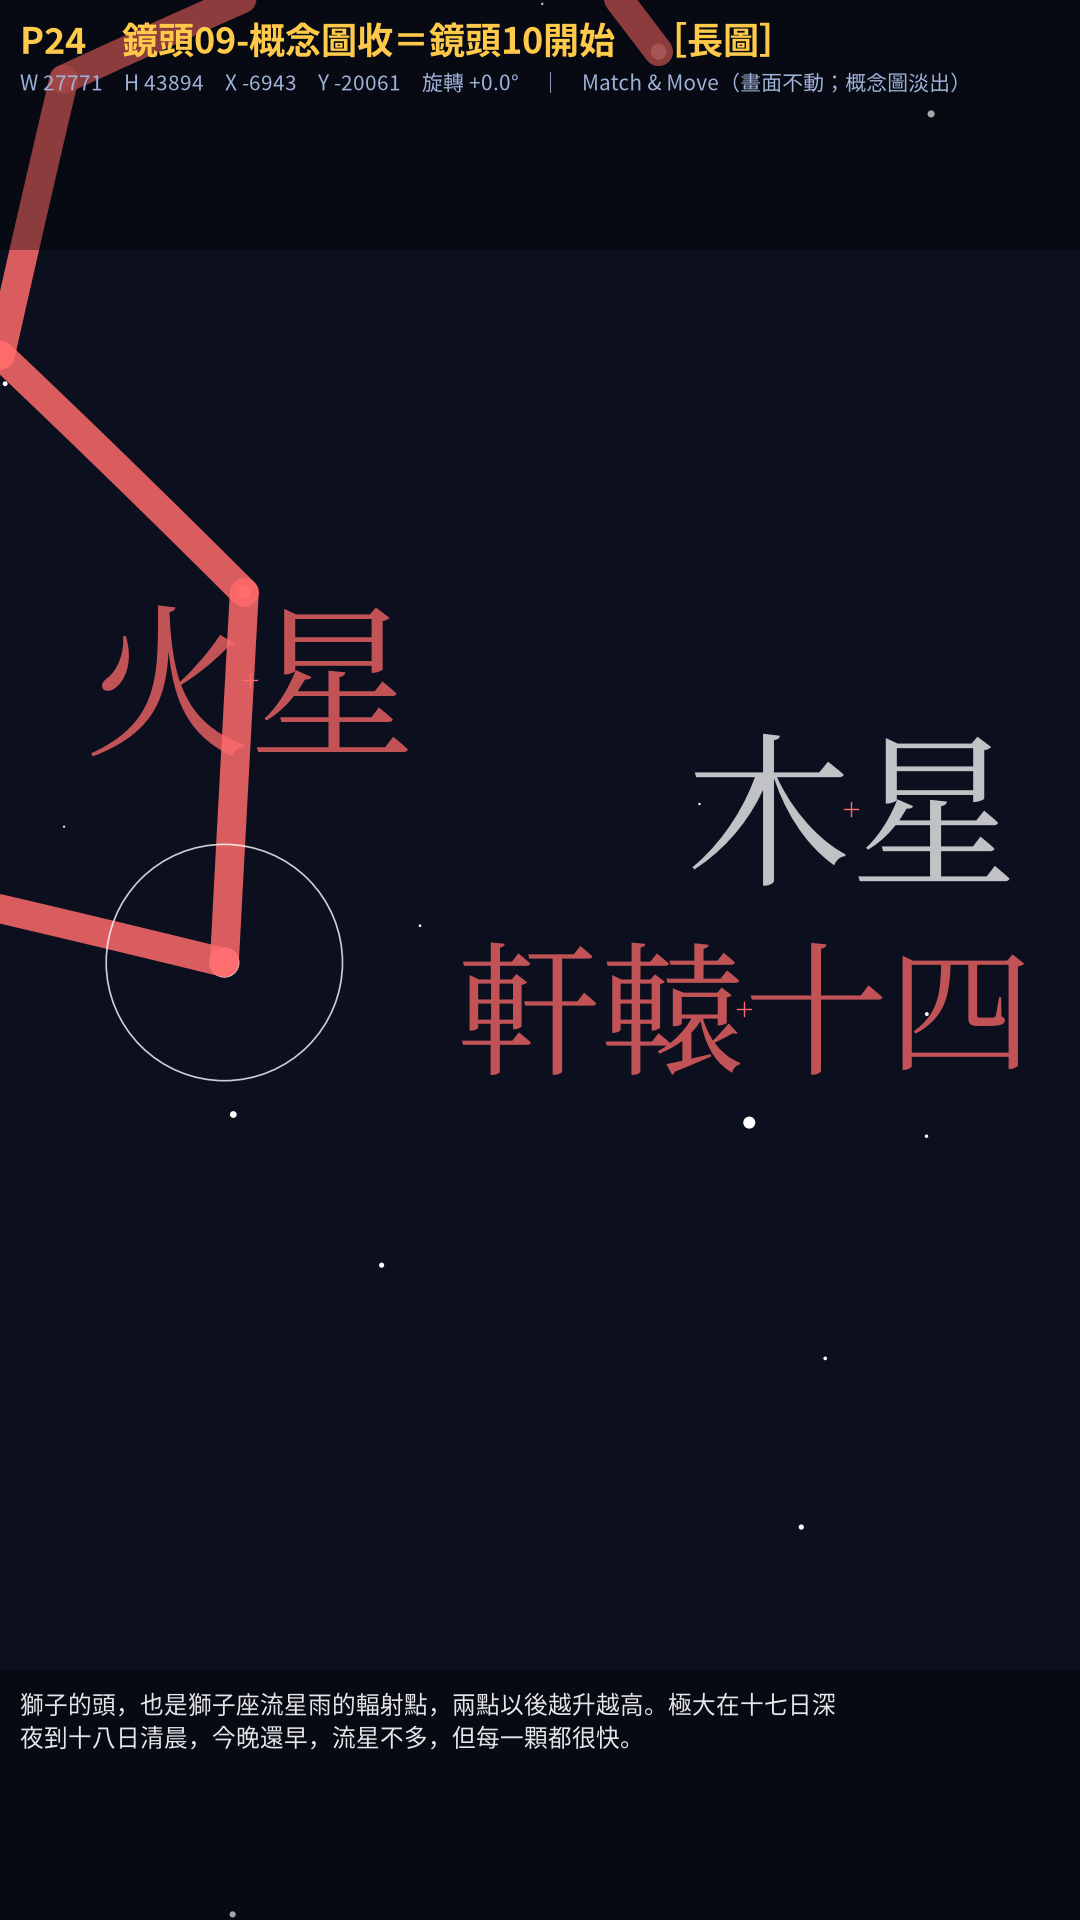
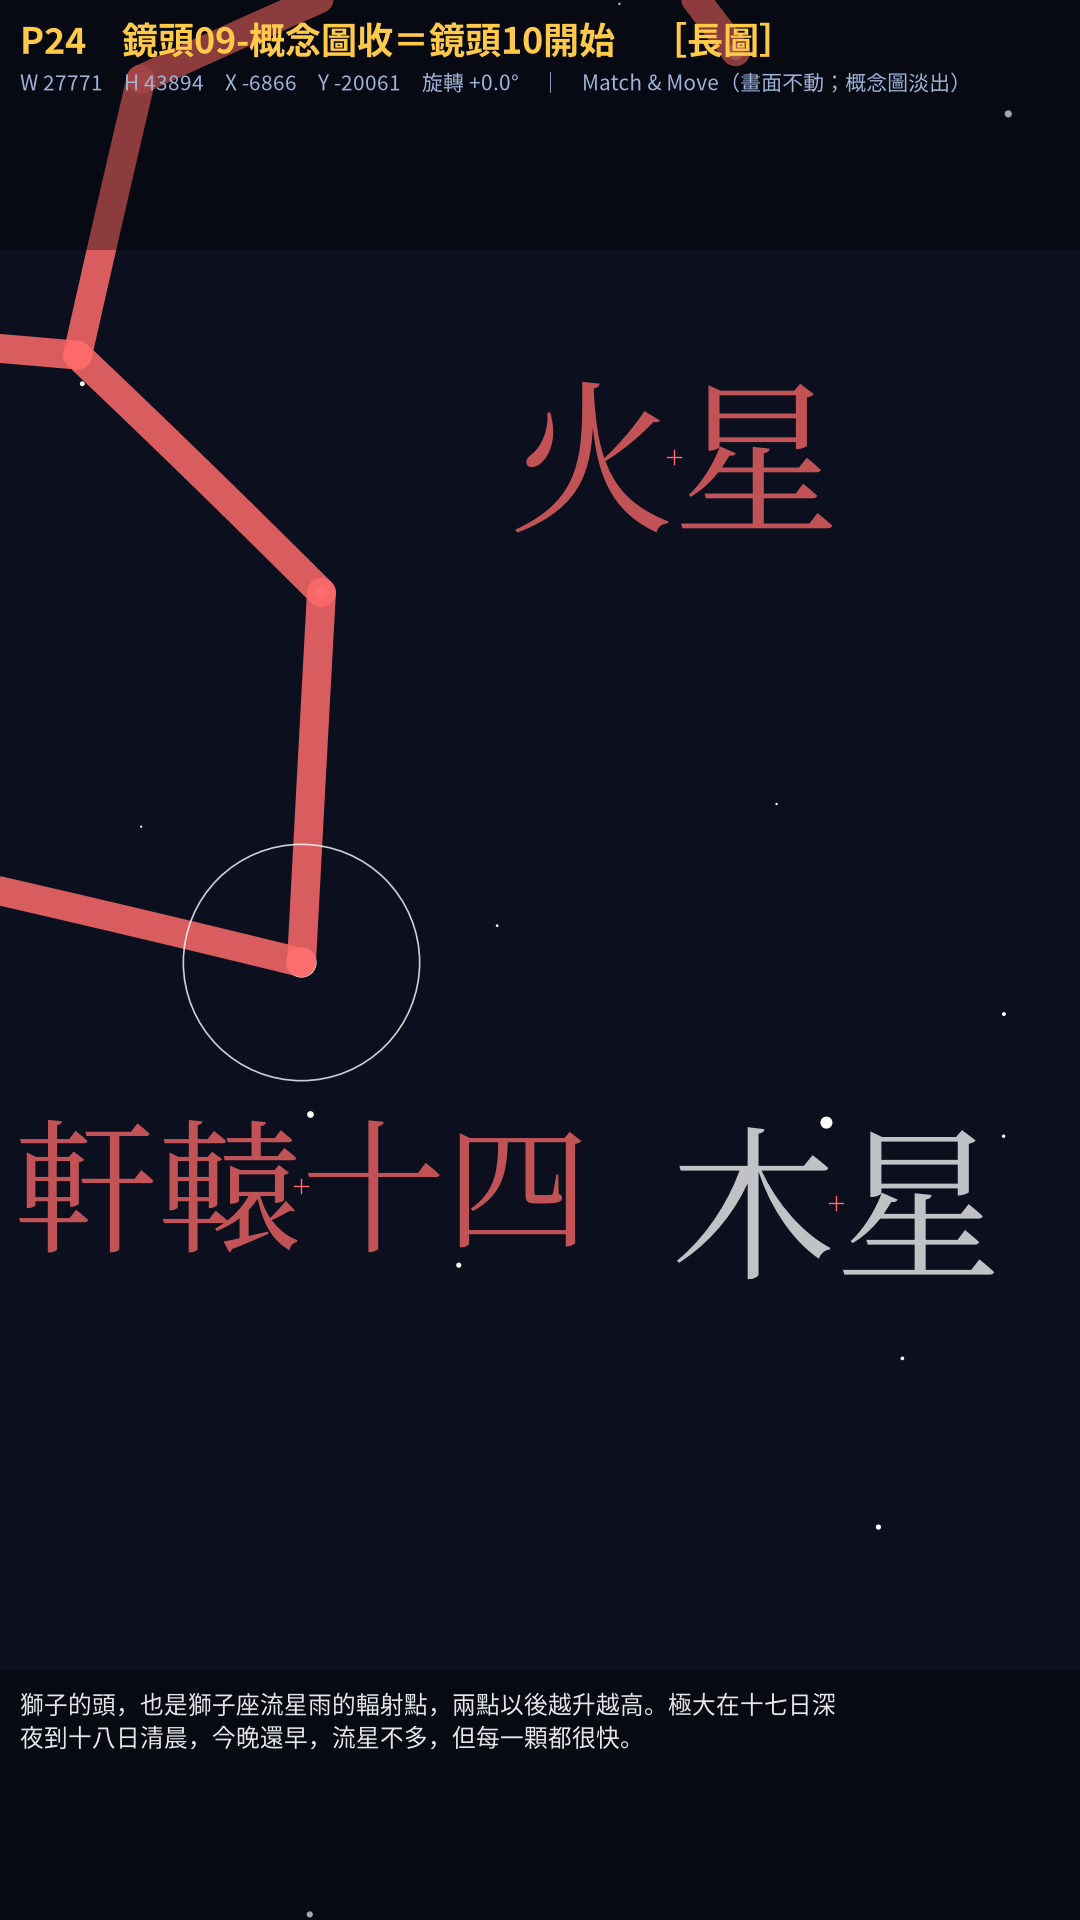
B-02 五校聯合觀星：Canva 建好（DAHXiIMk-Vs）＋標籤位置修正
- 逐字稿補上「Canva 製作」：頁序、概念圖頁、手動待辦（字型、轉場、多餘頁、Collab 帳號）
- 建 Canva 時發現的標籤問題，回頭改 make_b02_v4.py 再重出：
  軒轅十四改到星的正下方；火星／木星／金星的字移到行星圈外；
  鏡頭 09 推近中心往東 1°（-83 → -84）；角宿一、天狼星、畢宿五、天王星、
  北金牛座流星雨輻射點避開連線與彼此
- 大畫布 L1–L17 圖層位元組不變（已上傳的 Canva 媒體不用重傳），
  只更新標籤層、逐頁標籤座標、對位參考、鏡頭清單
- 節目表 B-02 狀態：逐字稿 v1（已查核）＋素材＋Canva 完成

Claude-Session: https://claude.ai/code/session_01StZzE6tWpXcy8oYxpE6GNa

diff --git a/02_製作流程SOP/make_b02_v4.py b/02_製作流程SOP/make_b02_v4.py
@@ -196,13 +196,14 @@ COLOR = {VEGA: "blue", ALTAIR: "blue", DENEB: "blue", NUNKI: "amber", FOMALHAUT:
          PROCYON: "white", POLLUX: "green", REGULUS: "red", SPICA: "green"}
 OFF = {VEGA: (-4.4, 1.0), ALTAIR: (4.6, -1.0), DENEB: (4.4, 1.0), NUNKI: (0.0, 2.6),
        FOMALHAUT: (4.6, 0.0), DIPHDA: (4.4, -0.4), MARKAB: (4.4, -1.0), ALPHERATZ: (-4.4, 1.2),
-       ALDEBARAN: (4.6, -0.6), CAPELLA: (-4.4, 0.8), BETELGEUSE: (-4.6, 0.6), RIGEL: (4.4, -0.6),
-       SIRIUS: (0.0, -2.4), PROCYON: (-4.4, 0.0), POLLUX: (-4.4, 0.6), REGULUS: (4.6, -0.6),
-       SPICA: (4.4, -1.2)}
+       ALDEBARAN: (-0.2, -2.4), CAPELLA: (-4.4, 0.8), BETELGEUSE: (-4.6, 0.6), RIGEL: (4.4, -0.6),
+       SIRIUS: (1.0, 2.0), PROCYON: (-4.4, 0.0), POLLUX: (-4.4, 0.6), REGULUS: (0.0, -2.9),
+       SPICA: (-3.33, -4.29)}
 
 PL_COLOR = {"土星": "amber", "火星": "red", "木星": "white", "金星": "amber", "天王星": "green"}
-PL_OFF = {"土星": (3.6, -0.4), "火星": (-3.4, 0.6), "木星": (3.4, 0.2), "金星": (-3.6, 0.4),
-          "天王星": (-3.2, -0.6)}
+# 火星在圈上方、木星在圈右下、金星在圈左上：行星圈很大（金星半徑約 4.9°），字放在圈外
+PL_OFF = {"土星": (3.6, -0.4), "火星": (0.0, 3.5), "木星": (2.2, -4.9), "金星": (-6.57, 2.5),
+          "天王星": (-3.2, 2.0)}
 OBJ = {    # 天體：(ra, dec, 文字, 顏色, dx, dy)
     "M31": (*M31, "仙女座大星系", "white", 0.0, -3.0),
     "M33": (*M33, "三角座星系", "white", 0.0, -2.4),
@@ -212,7 +213,7 @@ OBJ = {    # 天體：(ra, dec, 文字, 顏色, dx, dy)
     "M44": (*M44, "蜂巢星團", "white", 0.0, -2.4),
     "NGC7000": (*NGC7000, "北美星雲", "white", 0.0, -2.6),
     "NGC2237": (*NGC2237, "玫瑰星雲", "white", 0.0, -2.4),
-    "NTA": (*NTA_R, "北金牛座流星雨輻射點", "white", 0.0, -3.4),
+    "NTA": (*NTA_R, "北金牛座流星雨輻射點", "white", 5.0, -3.4),
     "LEO": (*LEO_R, "獅子座流星雨輻射點", "white", 0.0, -3.4),
 }
 CN = {     # 中國星官：(錨點, 名, 顏色, dx, dy)
@@ -460,7 +461,7 @@ def build():
     PLE_F = (6.0, 21.0, 30.0, 0.0)                           # 昴宿＋輻射點
     ORI_F = (-22.0, -4.0, 40.0, 0.0)                         # 獵戶＋玫瑰
     MJ_F = (-80.0, 14.0, 34.0, 0.0)                          # 火星＋木星＋軒轅十四
-    MJ_Z = (-83.0, 12.0, 14.0, 0.0)                          # 推近：火木 1.3°、軒轅十四 4.4°
+    MJ_Z = (-84.0, 12.0, 14.0, 0.0)                          # 推近：火木 1.3°、軒轅十四 4.4°（中心偏東 1°，軒轅十四的字不被左緣切掉）
     LEO_F = (-88.0, 17.0, 36.0, 0.0)                         # 獅子座＋輻射點
     VEN_F = (-134.0, -8.0, 30.0, 0.0)                        # 金星＋角宿一
     WIDE_F = (-70.0, 2.0, 52.0, 0.0)                         # 東半天全景

diff --git a/05_素材/B-02_五校聯合觀星/_v4大畫布/B-02_Canva逐頁製作表.md b/05_素材/B-02_五校聯合觀星/_v4大畫布/B-02_Canva逐頁製作表.md
@@ -29,10 +29,10 @@
 | 18 | 鏡頭08結束 | 長圖 | 11435.3 | 18074.1 | -2636.5 | -7632.4 | 0.0 | Match & Move（13.0 秒） | L1-銀河、L2-星點、L3-經緯線、L11-連線-獅子巨蟹、L13-深空天體、L14-行星標記、L17-主角星白點、L18-標籤-星座名、L19-標籤-亮星名 |  |
 | 19 | 鏡頭08-概念圖 | 長圖 | 11435.3 | 18074.1 | -2636.5 | -7632.4 | 0.0 | Match & Move（畫面不動；概念圖淡入） | L1-銀河、L2-星點、L3-經緯線、L11-連線-獅子巨蟹、L13-深空天體、L14-行星標記、L17-主角星白點 |  |
 | 20 | 鏡頭08-概念圖收＝鏡頭09開始 | 長圖 | 11435.3 | 18074.1 | -2636.5 | -7632.4 | 0.0 | Match & Move（畫面不動；概念圖淡出） | L1-銀河、L2-星點、L3-經緯線、L11-連線-獅子巨蟹、L13-深空天體、L14-行星標記、L17-主角星白點、L18-標籤-星座名、L19-標籤-亮星名 | 離木星四度多，是獅子座最亮的軒轅十四。一般雙筒望遠鏡，一個視野就裝得下這三顆，連木星的衛星都看得到。 |
-| 21 | 鏡頭09結束 | 長圖 | 27771.4 | 43894.3 | -6942.9 | -20061.4 | 0.0 | Match & Move（12.0 秒） | L1-銀河、L2-星點、L3-經緯線、L11-連線-獅子巨蟹、L13-深空天體、L14-行星標記、L17-主角星白點、L19-標籤-亮星名 |  |
-| 22 | 鏡頭09-概念圖1 | 長圖 | 27771.4 | 43894.3 | -6942.9 | -20061.4 | 0.0 | Match & Move（畫面不動；概念圖第 1 層淡入） | L1-銀河、L2-星點、L3-經緯線、L11-連線-獅子巨蟹、L13-深空天體、L14-行星標記、L17-主角星白點 |  |
-| 23 | 鏡頭09-概念圖2 | 長圖 | 27771.4 | 43894.3 | -6942.9 | -20061.4 | 0.0 | Match & Move（畫面不動；概念圖第 2 層淡入） | L1-銀河、L2-星點、L3-經緯線、L11-連線-獅子巨蟹、L13-深空天體、L14-行星標記、L17-主角星白點 |  |
-| 24 | 鏡頭09-概念圖收＝鏡頭10開始 | 長圖 | 27771.4 | 43894.3 | -6942.9 | -20061.4 | 0.0 | Match & Move（畫面不動；概念圖淡出） | L1-銀河、L2-星點、L3-經緯線、L11-連線-獅子巨蟹、L13-深空天體、L14-行星標記、L17-主角星白點、L19-標籤-亮星名 | 獅子的頭，也是獅子座流星雨的輻射點，兩點以後越升越高。極大在十七日深夜到十八日清晨，今晚還早，流星不多，但每一顆都很快。 |
+| 21 | 鏡頭09結束 | 長圖 | 27771.4 | 43894.3 | -6865.7 | -20061.4 | 0.0 | Match & Move（12.0 秒） | L1-銀河、L2-星點、L3-經緯線、L11-連線-獅子巨蟹、L13-深空天體、L14-行星標記、L17-主角星白點、L19-標籤-亮星名 |  |
+| 22 | 鏡頭09-概念圖1 | 長圖 | 27771.4 | 43894.3 | -6865.7 | -20061.4 | 0.0 | Match & Move（畫面不動；概念圖第 1 層淡入） | L1-銀河、L2-星點、L3-經緯線、L11-連線-獅子巨蟹、L13-深空天體、L14-行星標記、L17-主角星白點 |  |
+| 23 | 鏡頭09-概念圖2 | 長圖 | 27771.4 | 43894.3 | -6865.7 | -20061.4 | 0.0 | Match & Move（畫面不動；概念圖第 2 層淡入） | L1-銀河、L2-星點、L3-經緯線、L11-連線-獅子巨蟹、L13-深空天體、L14-行星標記、L17-主角星白點 |  |
+| 24 | 鏡頭09-概念圖收＝鏡頭10開始 | 長圖 | 27771.4 | 43894.3 | -6865.7 | -20061.4 | 0.0 | Match & Move（畫面不動；概念圖淡出） | L1-銀河、L2-星點、L3-經緯線、L11-連線-獅子巨蟹、L13-深空天體、L14-行星標記、L17-主角星白點、L19-標籤-亮星名 | 獅子的頭，也是獅子座流星雨的輻射點，兩點以後越升越高。極大在十七日深夜到十八日清晨，今晚還早，流星不多，但每一顆都很快。 |
 | 25 | 鏡頭10結束＝鏡頭11開始 | 長圖 | 10800.0 | 17070.0 | -2220.0 | -7065.0 | 0.0 | Match & Move（12.0 秒） | L1-銀河、L2-星點、L3-經緯線、L11-連線-獅子巨蟹、L15-流星雨輻射點、L13-深空天體、L14-行星標記、L17-主角星白點、L18-標籤-星座名、L20-標籤-天體 | 四點五十二分，天開始亮。五點前後，東南東低空冒出全天最亮的金星，負四點八等；望遠鏡裡是一彎細細的眉月，旁邊一度半是角宿一。 |
 | 26 | 鏡頭11結束 | 長圖 | 12960.0 | 20484.0 | -1116.0 | -9570.0 | 0.0 | Match & Move（14.0 秒） | L1-銀河、L2-星點、L3-經緯線、L12-連線-室女、L13-深空天體、L14-行星標記、L17-主角星白點、L18-標籤-星座名、L19-標籤-亮星名 |  |
 | 27 | 鏡頭11-概念圖 | 長圖 | 12960.0 | 20484.0 | -1116.0 | -9570.0 | 0.0 | Match & Move（畫面不動；概念圖淡入） | L1-銀河、L2-星點、L3-經緯線、L12-連線-室女、L13-深空天體、L14-行星標記、L17-主角星白點 |  |

diff --git a/04_腳本庫/B-02-五校聯合觀星今晚抬頭第一眼找誰-逐字稿-v1.md b/04_腳本庫/B-02-五校聯合觀星今晚抬頭第一眼找誰-逐字稿-v1.md
@@ -96,6 +96,42 @@
 
 ## Canva 製作
 
+- Canva 設計檔「**B-02 五校聯合觀測**」（DAHXiIMk-Vs，從韓國那集複製）。依 `B-02_Canva逐頁製作表.md` 排頁（`B-02_對位參考/` 是逐頁描圖紙），Canva 頁碼＝製作表頁碼＋1（第 1 頁是開場）。
+- 全片都在長圖上，沒有盤鏡頭，所以**沒有同框換檔的硬切頁**；頁與頁之間一律 Match & Move。
+- 原生標籤照 `B-02_逐頁標籤座標.csv` 打字（星座名／亮星名／天體／中國星官四組，字級夾在 36–96 px）；山的上緣在 Y≈1622。
+- 月亮是自訂層 L16（11/14 18:30 的位置），只放在鏡頭 01–02（第 1–6 頁）；九點前就下山，之後的頁都不放。
+- 方位卡、光害方位、火木相合、時間窗、今晚時間表裡的時間與仰角都直接畫在圖上；換出隊日要重跑 `make_b02_diagrams.py`。
+- **已建好（2026/10/10）**，頁序：
+  - 第 1 頁：開場。背景是長圖 L1–L3＋深空天體＋行星＋月亮（與第 2 頁同位置），字卡「11/14 五校聯合觀星 —— 尖石出隊；今晚抬頭，第一眼 —— 找誰？」（問句，刪掉模板的句號）。
+  - 第 2–33 頁：製作表第 1–32 頁。每頁都有天空圖層，備註裡寫了鏡頭與旁白。
+  - 第 34 頁：結尾卡「尖石見！」「11/14（六）五校聯合觀星」。背景是長圖 L1–L4＋深空＋行星＋輻射點，與第 33 頁同位置，畫面不動、字淡入。
+  - 第 35 頁：追蹤。背景是長圖 L1–L3（RA 45°、dec −20° 一帶，波江座，文字底下的亮星最少）。
+- 定格頁的概念圖（分層的底下墊一層 75% 黑的圓角框）：
+  - 第 5 頁：C-B02-01 方位卡 18:30 西南（合成層）。
+  - 第 8–9 頁：C-B02-02 光害方位，兩層（城鎮 → 暗區）。
+  - 第 13 頁：C-B02-03 方位卡 21:00 南方。
+  - 第 17 頁：C-B02-04「攝影時間窗」圖卡，滿版。
+  - 第 20 頁：C-B02-05 方位卡 04:00 東方。
+  - 第 23–24 頁：C-B02-06 火木相合，兩層（雙筒視野 → 11/13–11/18 火星的位置）。
+  - 第 28 頁：C-B02-07 方位卡 05:00 東南東。
+  - 第 32 頁：C-B02-08「今晚時間表」圖卡，滿版（可單獨存成貼文第 2 張圖／限動）。
+- 建 Canva 時抓到、已回頭改進 `make_b02_v4.py` 再重出的標籤位置（大畫布的圖層沒有變，只動標籤層與逐頁座標）：
+  - 軒轅十四：原本放在右側，正好落在火星、木星的圈旁，推近（第 22、25 頁）時離軒轅十四本身五百多 px。改成放在軒轅十四正下方。
+  - 火星、木星：原本左右兩側的字壓在行星圈上，改成火星在圈的上方、木星在圈的右下方。
+  - 鏡頭 09 推近的畫面中心往東移 1°（x −83 → −84），軒轅十四的字才不會被畫面左緣切掉。
+  - 金星、角宿一：金星的圈很大（半徑約 4.9°），兩個字原本都壓在圈線上，改成金星在左上、角宿一在左下，都在圈外。
+  - 第 15 頁：天王星、北金牛座流星雨輻射點、畢宿五三個標籤原本疊在一起，改成輻射點在右下、天王星在左上、畢宿五在星的左下方。
+  - 天狼星：原本壓在大犬座連線上，改成放在右上方。
+  - 畢宿五改位置後，獵戶座那兩頁（第 16、18 頁）右上角也會出現「畢宿五」，Canva 已一起補上。
+- 還要手動處理：
+  - **字型**：原生標籤目前是 Canva 預設字型，請整批換成品牌字（筑紫Aオールド明朝）。
+  - **轉場**：Canva API 不能設轉場，請全部設成 Match & Move（本集沒有換檔頁）。概念圖頁的時間要跟旁白對齊（第 8–9、23–24 頁一層一層進）。
+  - **多餘的頁**：Canva API 不能刪頁。
+    - 第 36–46 頁是韓國那集沒用到的天空頁，請刪除。
+    - 第 47–74 頁是韓國集的參考文獻。本集用得到的只有第 62 頁（中國星官：Sun & Kistemaker《The Chinese Sky during the Han》等），是南斗、昴宿、軒轅、角宿與斗宿四、土司空、壁宿二、軒轅十四、角宿一等星名的出處。其餘頁可刪，或換成本集的資料來源（PyEphem、IMO 流星雨表、Mallama & Hilton 2018 行星星等）。
+    - 第 75 頁是致謝；第 76–83 頁是暫存頁，輸出前可刪。
+  - **Collab**：發布時用 Collab 邀五校社團帳號共同發布，Caption 的 tag 要填入實際帳號。
+
 ---
 
 ## Caption 建議
